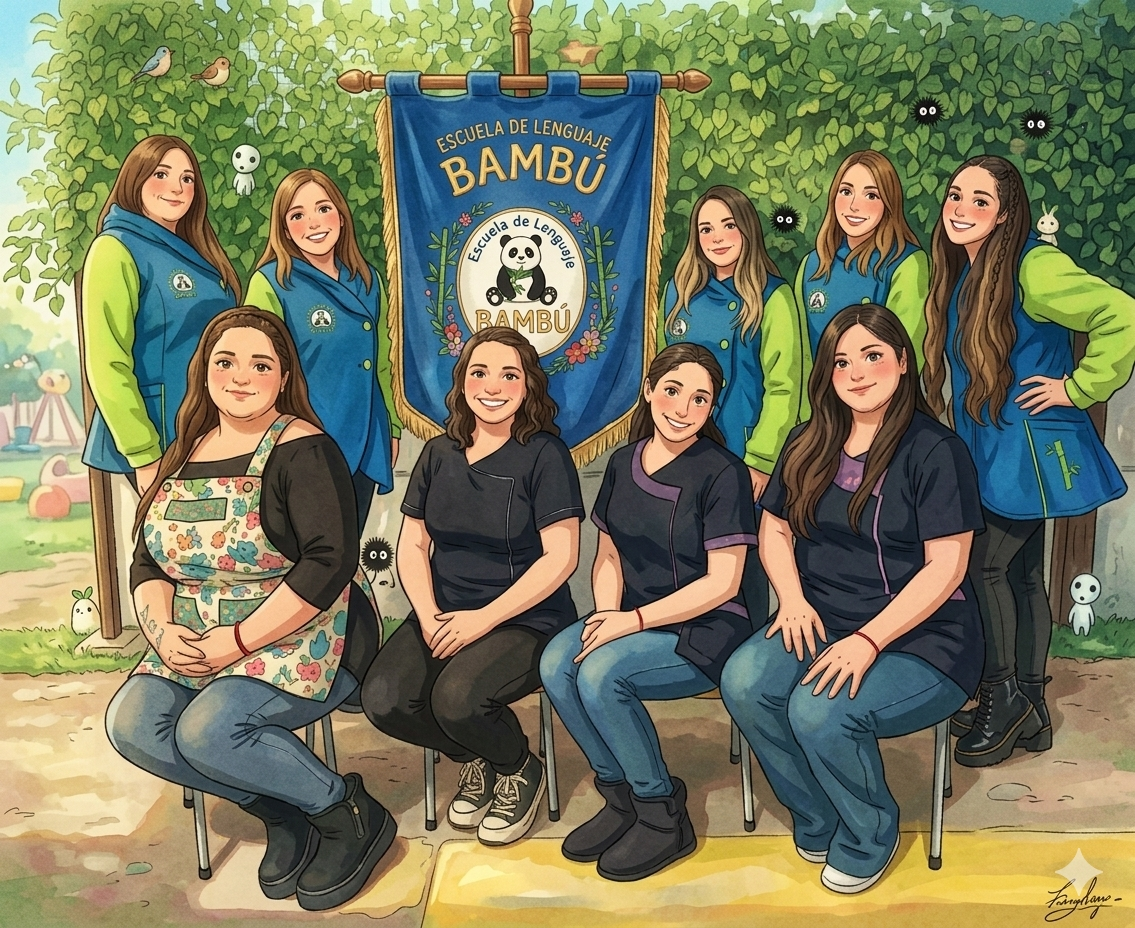
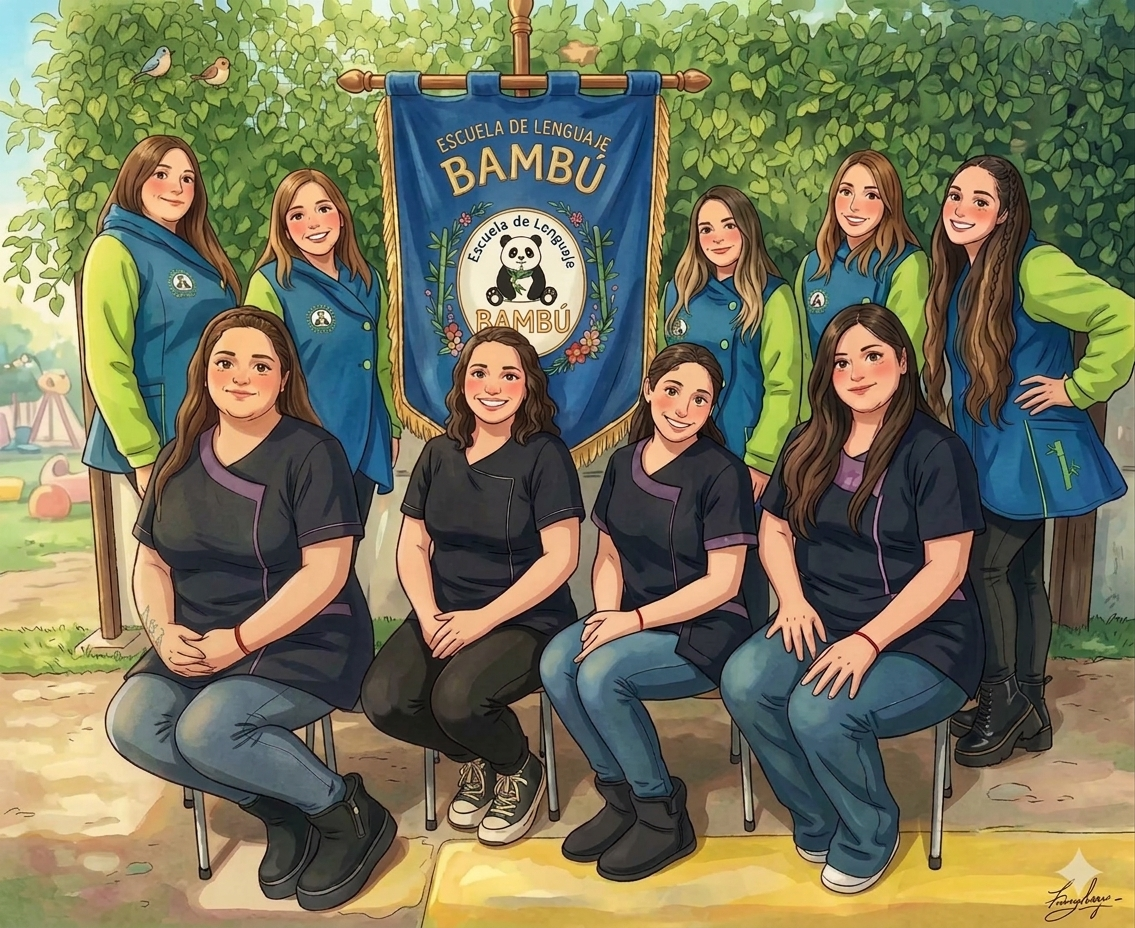
Hero: panda junto a botones, arregla solape del bambu; nueva foto de equipo en Nosotros

diff --git a/index.html b/index.html
@@ -79,11 +79,14 @@
             Educación inicial especializada en el desarrollo del lenguaje. Un espacio cálido y confiable donde cada
             niño y niña aprende, se expresa y avanza con apoyo pedagógico y fonoaudiológico profesional.
           </p>
-          <div class="d-flex flex-column flex-sm-row gap-3 justify-content-center justify-content-lg-start">
-            <a href="#admision" class="btn btn-bambu-primary btn-lg">
-              <i class="bi bi-mortarboard-fill" aria-hidden="true"></i> Quiero postular
-            </a>
-            <a href="#nosotros" class="btn btn-bambu-outline btn-lg">Conócenos</a>
+          <div class="hero-actions">
+            <img src="assets/panda_solo.jpeg" alt="Panda de la Escuela de Lenguaje Bambú" class="hero-actions-panda" />
+            <div class="hero-actions-btns d-flex flex-column flex-sm-row gap-3 justify-content-center justify-content-lg-end">
+              <a href="#admision" class="btn btn-bambu-primary btn-lg">
+                <i class="bi bi-mortarboard-fill" aria-hidden="true"></i> Quiero postular
+              </a>
+              <a href="#nosotros" class="btn btn-bambu-outline btn-lg">Conócenos</a>
+            </div>
           </div>
         </div>
         <div class="col-lg-7 text-center">
@@ -107,7 +110,7 @@
       </div>
       <div class="row align-items-center g-5">
         <div class="col-lg-6">
-          <img src="assets/frontis_bambu_nuevo_logo.jpeg" alt="Frontis de la Escuela de Lenguaje Bambú con el nuevo logo" class="img-fluid rounded-media mb-4" />
+          <img src="assets/equipo-bambu.jpg" alt="Equipo de educadoras de la Escuela de Lenguaje Bambú" class="img-fluid rounded-media mb-4" />
           <p class="lead-text">
             La <strong>Escuela de Lenguaje Bambú</strong> fue fundada por <strong>tres educadoras diferenciales
             especialistas</strong>, unidas por la convicción de que cada niño y niña merece herramientas para

diff --git a/css/styles.css b/css/styles.css
@@ -143,16 +143,16 @@ section[id], header[id] { scroll-margin-top: 80px; }
   height: auto;
 }
 .bamboo-deco-tl {
-  top: 0; left: 0;
-  transform: rotate(8deg) translate(-12%, -14%);
+  top: 0; right: 0;
+  transform: scaleX(-1) rotate(8deg) translate(-8%, -14%);
 }
 .bamboo-deco-br {
   bottom: 40px; right: 0;
   transform: scaleX(-1) rotate(6deg) translate(-8%, 6%);
 }
-@media (max-width: 767.98px) {
-  .bamboo-deco { opacity: .5; width: 130px; }
-  .bamboo-deco-br { display: none; }
+/* Oculta las ramas en pantallas medianas/pequeñas para evitar solapes con el texto */
+@media (max-width: 991.98px) {
+  .bamboo-deco-tl, .bamboo-deco-br { display: none; }
 }
 .badge-trayectoria {
   display: inline-block; background: #fff; color: var(--primario-osc);
@@ -182,9 +182,30 @@ section[id], header[id] { scroll-margin-top: 80px; }
   font-size: 1.1rem; color: var(--texto-suave);
   margin-bottom: 2rem; max-width: 560px;
 }
+/* Fila: panda a la izquierda + botones pegados hacia la imagen (derecha) */
+.hero-actions {
+  display: flex;
+  align-items: flex-end;
+  justify-content: space-between;
+  gap: 1rem;
+}
+.hero-actions-panda {
+  width: clamp(90px, 12vw, 150px);
+  height: auto;
+  flex: 0 0 auto;
+}
+.hero-actions-btns { flex: 1 1 auto; }
+
 @media (max-width: 991.98px) {
   .hero-title { align-items: center; }
   .hero-tagline { margin-left: auto; margin-right: auto; }
+  /* En móvil/tablet centramos: panda arriba, botones abajo */
+  .hero-actions {
+    flex-direction: column;
+    align-items: center;
+    justify-content: center;
+  }
+  .hero-actions-btns { flex: 0 0 auto; }
 }
 .hero-media {
   position: relative; display: inline-block;
